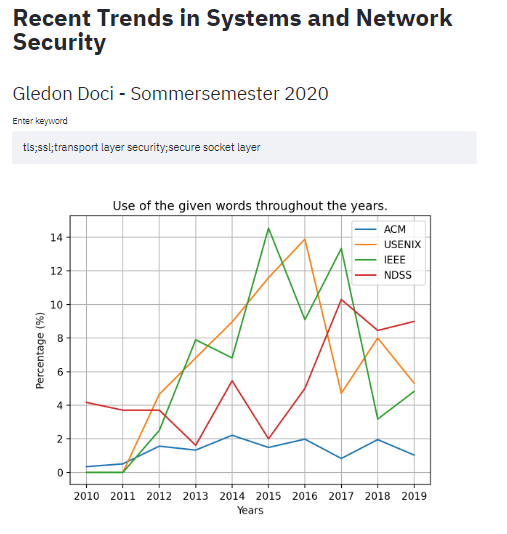
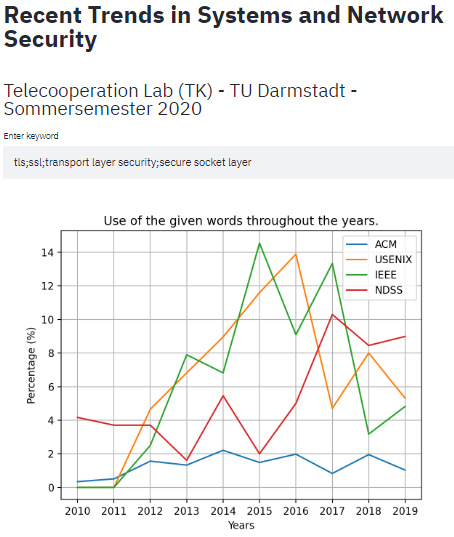
update packets and instructions

Changed region(s): [[0.0617, 0.3596, 0.9251, 0.9888], [0.0, 0.1498, 0.7709, 0.3296], [0.0, 0.0, 0.9868, 0.1199]]

diff --git a/PIN_Seminar.py b/PIN_Seminar.py
@@ -9,7 +9,7 @@ import matplotlib.ticker as ticker
 st.markdown(
 """
 # Recent Trends in Systems and Network Security
-## Gledon Doci - Sommersemester 2020
+## Telecooperation Lab (TK) - TU Darmstadt - Sommersemester 2020
 """
 )
 
@@ -47,14 +47,14 @@ def getvalues(inputstring):
     for conference in conferences:
         for x in range(2010,2020):
             templist = []
-            if(not os.path.isfile("Dataset/" + conference + "-" + str(x) + ".csv")):
+            if(not os.path.isfile("dataset/" + conference + "-" + str(x) + ".csv")):
                 continue
-            size = sum(1 for row in csv.DictReader(open("Dataset/" + conference + "-" + str(x) + ".csv")))
+            size = sum(1 for row in csv.DictReader(open("dataset/" + conference + "-" + str(x) + ".csv")))
             if(conference == "ieee"):
                 confname = conference.upper() + " - " + str(x)
                 momcount = 0
                 for a in listofkeywords:
-                    for row in csv.DictReader(open("Dataset/" + conference + "-" + str(x) + ".csv")):
+                    for row in csv.DictReader(open("dataset/" + conference + "-" + str(x) + ".csv")):
                         if a.upper() in row['keywords'].upper() and row['title'] not in templist:
                             momcount += 1
                             templist.append(row['title'])
@@ -67,7 +67,7 @@ def getvalues(inputstring):
                 confname = conference.upper() + " - " + str(x)
                 momcount = 0
                 for a in listofkeywords:
-                    for row in csv.DictReader(open("Dataset/" + conference + "-" + str(x) + ".csv")):
+                    for row in csv.DictReader(open("dataset/" + conference + "-" + str(x) + ".csv")):
                         if a.upper() in row['abstract'].upper() and row['title'] not in templist:
                             momcount += 1
                             templist.append(row['title'])

diff --git a/README.md b/README.md
@@ -7,12 +7,12 @@ This work was developed as part of "PIN: Protection in Infrastructures and Netwo
 
 Build the container:
 ```docker
-docker build -f Dockerfile -t app:latest .
+docker build -f Dockerfile -t frequency-analysis .
 ```
 
 Run the container:
 ```docker
-docker run -i -t -p 8501:8501 app:latest
+docker run -i -t -p 8501:8501 frequency-analysis
 ```
 
-The container is now available on http://localhost:8501/.
+The application is now available on http://localhost:8501/.
